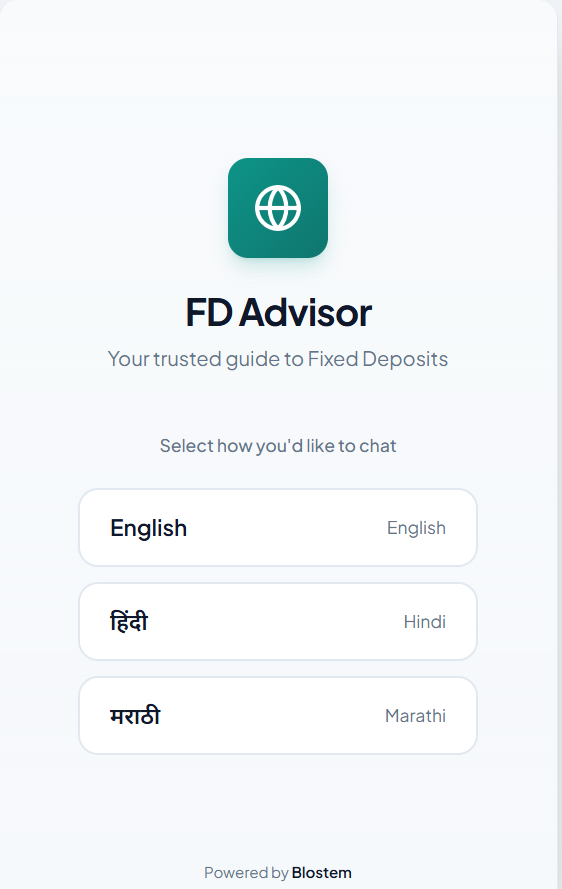
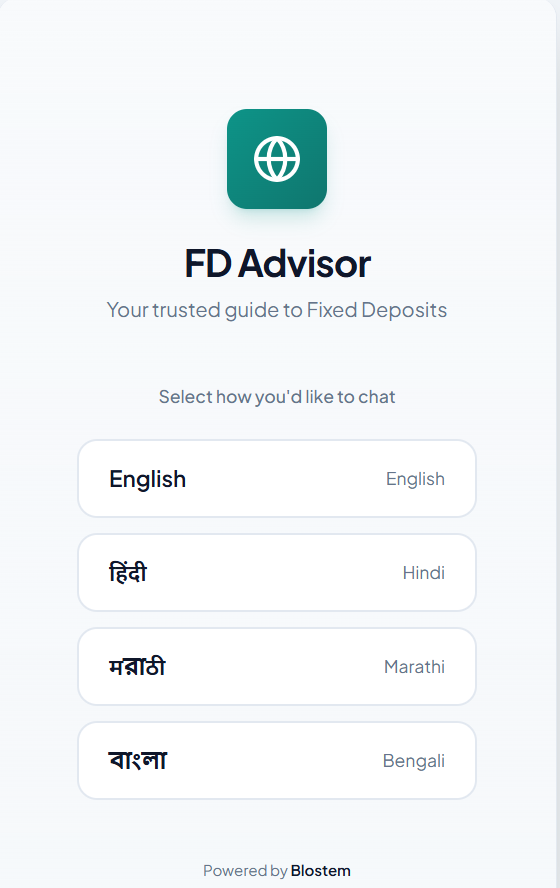
feat: implement full-stack Bengali support and localize chat header

diff --git a/backend/controllers/aiController.js b/backend/controllers/aiController.js
@@ -1,12 +1,11 @@
 /**
  * AI Controller - Gemini Integration for FD Analysis
- * Production Version - Strict Environment Variable Loading
+ * Updated with Bengali (bn) Support
  */
 
 import { GoogleGenerativeAI } from '@google/generative-ai';
 import dotenv from 'dotenv';
 
-// 1. Force environment variables to load FIRST
 dotenv.config();
 
 const SYSTEM_INSTRUCTION = `You are an expert Fixed Deposit (FD) advisor for Indian customers. Your role is to:
@@ -28,7 +27,7 @@ CRITICAL: You MUST respond ONLY with valid JSON in this exact schema:
 
 Rules:
 - botMessage should be warm, conversational, and in the user's preferred language
-- For Hindi/Marathi, use Devanagari script naturally mixed with English banking terms
+- For Hindi/Marathi/Bengali, use their native script naturally mixed with English banking terms like FD, interest, etc.
 - Always explain what the customer will earn in simple terms
 - Identify 2-4 jargon terms maximum from the offer
 - If no valid FD offer is found, set bankName to null and explain politely
@@ -38,7 +37,8 @@ Rules:
 const LANGUAGE_PROMPTS = {
   en: 'Respond in simple English that anyone can understand.',
   hi: 'Respond in Hindi (हिंदी) using Devanagari script. Mix English for banking terms like FD, interest, etc.',
-  mr: 'Respond in Marathi (मराठी) using Devanagari script. Mix English for banking terms like FD, interest, etc.',
+  mr: 'Respond in Marathi (मराঠি) using Devanagari script. Mix English for banking terms like FD, interest, etc.',
+  bn: 'Respond in Bengali (বাংলা) using Bengali script. Mix English for banking terms like FD, interest, etc.',
 };
 
 export async function analyzeOffer(req, res) {
@@ -49,7 +49,6 @@ export async function analyzeOffer(req, res) {
       return res.status(400).json({ success: false, error: 'userMessage is required' });
     }
 
-    // 2. Initialize Gemini dynamically so it always catches the .env key
     const apiKey = process.env.GEMINI_API_KEY;
     if (!apiKey) {
       console.error('[CRITICAL] GEMINI_API_KEY is missing from .env file!');

diff --git a/store/useAppStore.ts b/store/useAppStore.ts
@@ -42,7 +42,7 @@ export interface BookingLead {
 }
 
 export type AppScreen = 'splash' | 'language-select' | 'mobile-auth' | 'chat' | 'booking-success'
-export type Language = 'en' | 'hi' | 'mr'
+export type Language = 'en' | 'hi' | 'mr' | 'bn'
 
 interface AppState {
   currentScreen: AppScreen
@@ -87,10 +87,10 @@ const initialWelcomeMessage: ChatMessage = {
 
 const initialState = {
   currentScreen: 'splash' as AppScreen,
-  language: 'hi' as Language,
+  language: 'hi' as Language, // Kept default as Hindi
   mobileNumber: '',
   isAuthenticated: false,
-  messages: [initialWelcomeMessage], // STRICTLY fresh start
+  messages: [initialWelcomeMessage],
   isTyping: false,
   bookingLead: null,
   isJargonSheetOpen: false,
@@ -145,7 +145,7 @@ export const useAppStore = create<AppState>()(
           if (response.success && response.data) {
             const { bankName, interestRate, tenureMonths, botMessage, jargonTerms } = response.data
 
-            const formattedJargonTerms = jargonTerms?.map((term, index) => ({
+            const formattedJargonTerms = jargonTerms?.map((term: any, index: number) => ({
               term: term.term,
               definitionKey: `dynamic.jargon.${index}`,
               definition: term.definition,

diff --git a/components/screens/LanguageSelectScreen.tsx b/components/screens/LanguageSelectScreen.tsx
@@ -8,7 +8,8 @@ import { Globe } from 'lucide-react'
 const languages: { code: Language; label: string; script: string }[] = [
   { code: 'en', label: 'English', script: 'English' },
   { code: 'hi', label: 'Hindi', script: 'हिंदी' },
-  { code: 'mr', label: 'Marathi', script: 'मराठी' },
+  { code: 'mr', label: 'Marathi', script: 'मরাठी' },
+  { code: 'bn', label: 'Bengali', script: 'বাংলা' },
 ]
 
 const containerVariants = {

diff --git a/lib/i18n.ts b/lib/i18n.ts
@@ -5,11 +5,13 @@ import LanguageDetector from 'i18next-browser-languagedetector'
 import en from '@/locales/en.json'
 import hi from '@/locales/hi.json'
 import mr from '@/locales/mr.json'
+import bn from '@/locales/bn.json'
 
 const resources = {
   en: { translation: en },
   hi: { translation: hi },
   mr: { translation: mr },
+  bn: { translation: bn },
 }
 
 i18n

diff --git a/components/chat/ChatHeader.tsx b/components/chat/ChatHeader.tsx
@@ -15,6 +15,7 @@ const languages: { code: Language; label: string; script: string }[] = [
   { code: 'en', label: 'English', script: 'EN' },
   { code: 'hi', label: 'Hindi', script: 'हि' },
   { code: 'mr', label: 'Marathi', script: 'म' },
+  { code: 'bn', label: 'Bengali', script: 'বাং' },
 ]
 
 export function ChatHeader() {

diff --git a/README.md b/README.md
@@ -19,7 +19,7 @@ Financial inclusion in India is growing, but financial *literacy* lags behind. W
 **FD Advisor** is a multilingual, conversational financial companion designed to make banking frictionless. Instead of filling out forms, the app allows users to simply paste the raw SMS they received. The AI instantly breaks down the offer, explains it in their native language, and guides the user smoothly through the next steps.
 
 **How we solve it:**
-* **Language Barriers** ➔ Native chat support in English, Hindi, and Marathi.
+* **Language Barriers** ➔ Native chat support in English, Hindi, Marathi, and Bengali.
 * **Confusing Jargon** ➔ Dynamic, clickable terms that reveal simple explanations.
 * **Complex Math** ➔ An interactive calculator to visualize returns instantly.
 * **High Drop-off Rates** ➔ A conversational flow that guides the user through initial KYC.
@@ -42,7 +42,7 @@ Financial inclusion in India is growing, but financial *literacy* lags behind. W
 <p align="center">
   <img src="./assets/homepage.png" height="400px" alt="Welcome Screen" />
   <br>
-  <em>Fig 2: Multilingual Onboarding (EN/HI/MR)</em>
+  <em>Fig 2: Multilingual Onboarding (EN/HI/MR/BN)</em>
 </p>
 
 <p align="center">
@@ -92,7 +92,7 @@ Financial inclusion in India is growing, but financial *literacy* lags behind. W
 
 * **Intelligent NLP Parsing:** Google's Gemini 2.5 Flash API handles the heavy lifting of extracting exact financial data (Bank Name, Rate, Tenure) from messy natural language. 
 * **Strict JSON Sanitization:** The AI is constrained via system prompts to return a highly specific JSON schema. To prevent crash loops, the backend middleware automatically strips markdown formatting from the AI's response before parsing the payload.
-* **The "Anti-Sleep" Cron Architecture:** To combat serverless free-tier inactivity cycles, an external ping hits the server's `/health` endpoint every 14 minutes. This keeps the Express server perpetually awake, guaranteeing zero-latency AI responses for end users. *(⚡ Performance Note: I implemented this custom architecture to ensure the MVP responds instantly during evaluation).*
+* **Zero-Latency Keep-Alive:** To combat serverless free-tier inactivity cycles, an external ping hits the server's `/health` endpoint every 14 minutes. This prevents cold starts on Render, guaranteeing instant AI responses for end users and evaluators without delay.
 * **Robust CORS Policy:** The backend is locked down to explicitly accept API requests *only* from the deployed Vercel production domain and the local dev environment, rejecting unauthorized cross-origin attempts.
 
 ---
